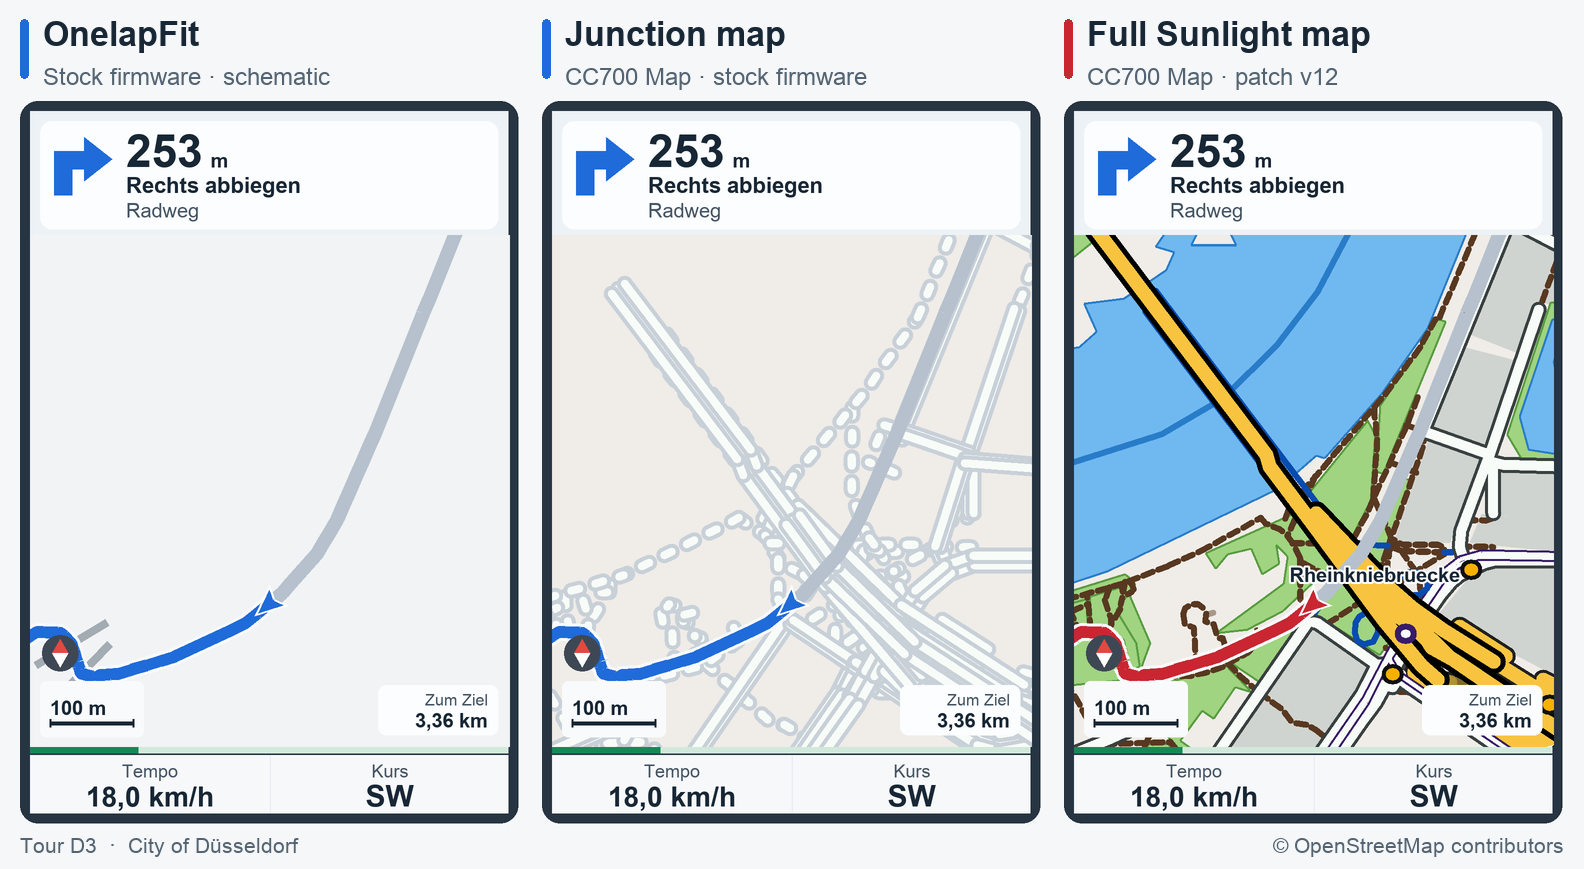
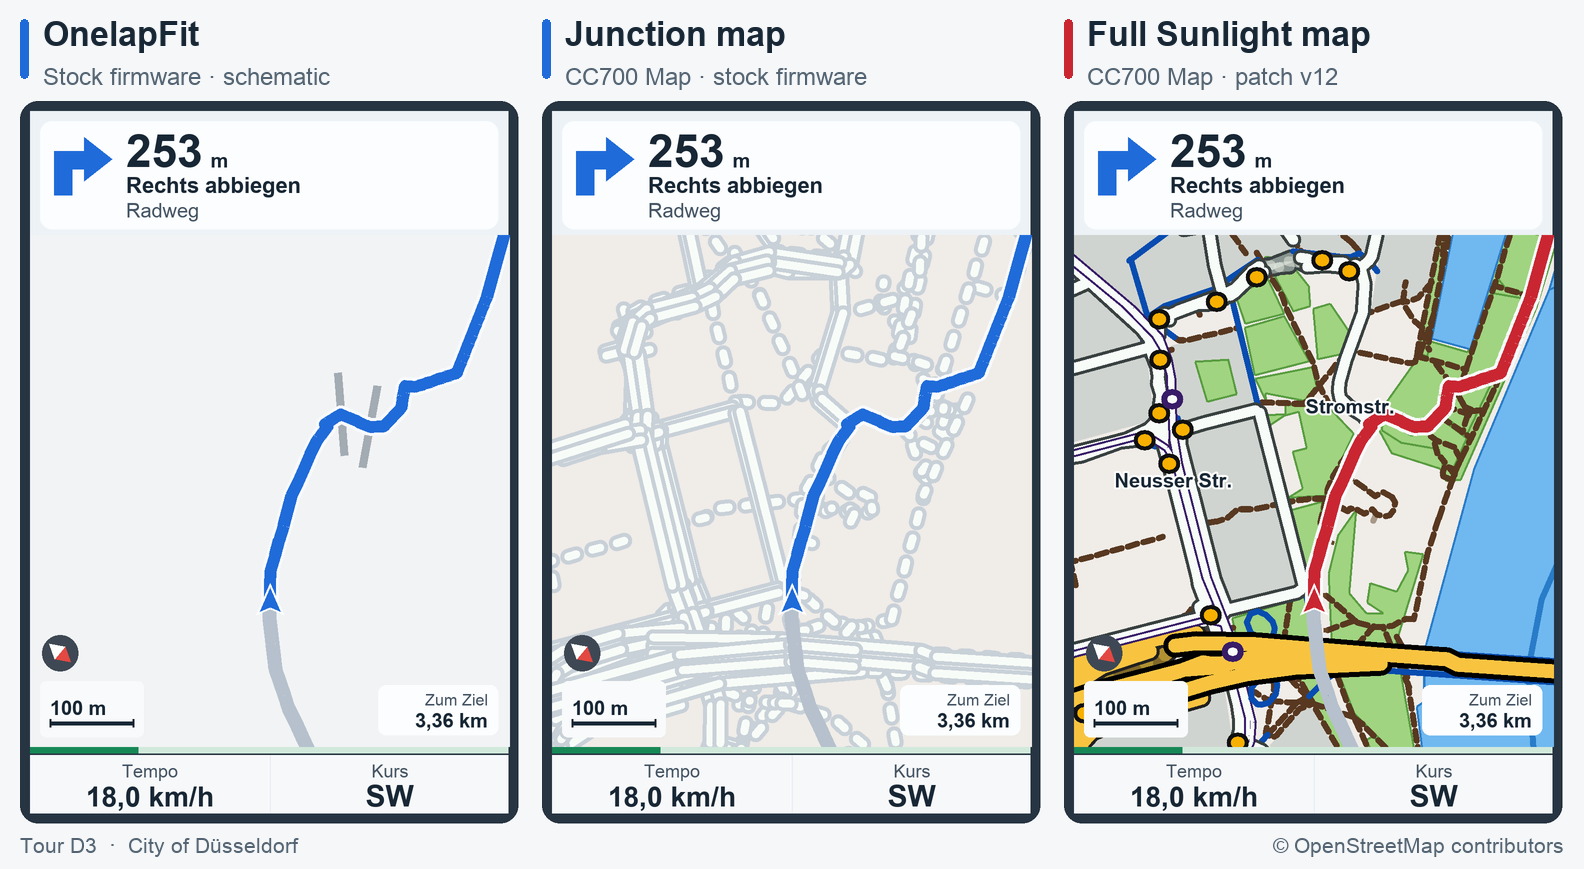
Match CC700 heading-up navigation in all comparison scenes

Changed region(s): [[0.3403, 0.2486, 0.9899, 0.87], [0.1237, 0.2796, 0.3403, 0.87], [0.0, 0.7146, 0.1237, 0.8078]]

diff --git a/README.md b/README.md
@@ -13,8 +13,9 @@ The turn card, heading and distance to the finish update as the maps move.
 
 ## Compare the three navigation views
 
-Five north-up scenes from Tour D3. Each excerpt is generated as its own route file. All three panels
-in a scene show the same position, scale and guidance. Open any image to zoom in.
+Five heading-up scenes from Tour D3. The rider’s direction of travel points toward the top of the
+screen, and the compass shows where north is. Each excerpt is generated as its own route file.
+All three panels in a scene share the same position, heading, scale and guidance. Open any image to zoom in.
 [City of Düsseldorf Tour D3 and GPX](https://www.duesseldorf.de/radverkehr/fahrradtouren/tour-d)
 
 | Navigation mode | What the CC700 displays |
